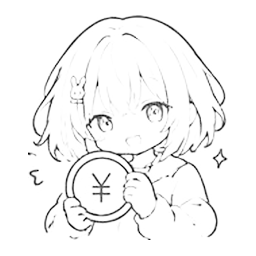
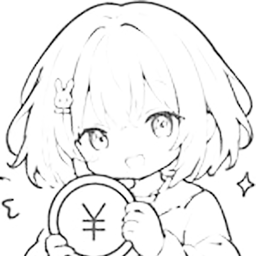
feat: 少女图标满幅化——线稿 cover 铺满 256 画布 + 选择器满格无白边

diff --git a/src/styles.css b/src/styles.css
@@ -1736,6 +1736,8 @@ span.ledger-switch-img {
   padding: 0; transition: transform .12s ease, background .16s ease, border-color .16s ease;
 }
 .ilib-it img { width: 26px; height: 26px; object-fit: contain; }
+/* v3.1.1 少女线稿满格：人物撑满整个格子（无白边），圆角随格子 */
+.ilib-it img.girl { width: 100%; height: 100%; border-radius: inherit; }
 .ilib-it:active { transform: scale(.92); }
 .ilib-it.on { border-color: var(--brand); background: var(--brand-weak); }
 

diff --git a/src/pages/CategoryManage.jsx b/src/pages/CategoryManage.jsx
@@ -200,7 +200,7 @@ export default function CategoryManage({ nav }) {
                   setEmojiTarget(null)
                 }}
               >
-                <img src={it.thumb} alt="" draggable={false} />
+                <img src={it.thumb} alt="" draggable={false} className="girl" />
               </button>
             ))}
           </div>

diff --git a/scripts/slice-girl-icons.py b/scripts/slice-girl-icons.py
@@ -2,7 +2,7 @@
 # 网格用墨迹投影自动检测（4 行，行内按空白分列），断言 8/6/6/8 布局；
 # 每格底部的中文标签通过"末段矮且与主体有间隙"规则剔除。
 # 白底转透明：alpha = 255 - 灰度，RGB 置黑（白底合成后与原图逐像素一致）。
-# 输出 256×256 透明 PNG，主体等比缩放居中留 6% 边距。
+# 输出 256×256 透明 PNG，线稿满幅 cover 铺满（顶对齐裁底部溢出，半身像不伤头，无白边）。
 # 另出 design/girl-contact-sheet.png 拼图供人工核验。
 import sys
 from pathlib import Path
@@ -17,7 +17,6 @@ GAP = 10           # 行/列分割最小空白
 LABEL_MAX_H = 60   # 低于此高度且位于底部的段视为文字标签
 LABEL_BAND_H = 40  # 整幅行投影中，标签行 band 的高度上限
 CANVAS = 256
-MARGIN = 0.06
 
 KEYS = [
     ['food', 'transport', 'shop', 'home', 'medical', 'edu', 'phone', 'travel'],
@@ -96,14 +95,15 @@ def main():
 
     for key, art in crops:
         aw, ah = art.size
-        scale = min((1 - 2 * MARGIN) * CANVAS / aw, (1 - 2 * MARGIN) * CANVAS / ah)
+        # v3.1.1 满幅：取 max 比例铺满 256×256（cover），纵向顶对齐裁底部溢出（半身像裁胸口不伤头），横向居中
+        scale = max(CANVAS / aw, CANVAS / ah)
         nw, nh = max(1, round(aw * scale)), max(1, round(ah * scale))
         g = art.resize((nw, nh), Image.LANCZOS)
         canvas = Image.new('RGBA', (CANVAS, CANVAS), (0, 0, 0, 0))
         alpha = g.point(lambda v: 255 - v)
         black = Image.new('RGBA', (nw, nh), (0, 0, 0, 255))
         black.putalpha(alpha)
-        canvas.paste(black, ((CANVAS - nw) // 2, (CANVAS - nh) // 2), black)
+        canvas.paste(black, ((CANVAS - nw) // 2, 0), black)
         canvas.save(out_dir / f'{key}.png', optimize=True)
 
     # 拼图核验：浅灰底 + 网格线，放大到 128 显示
